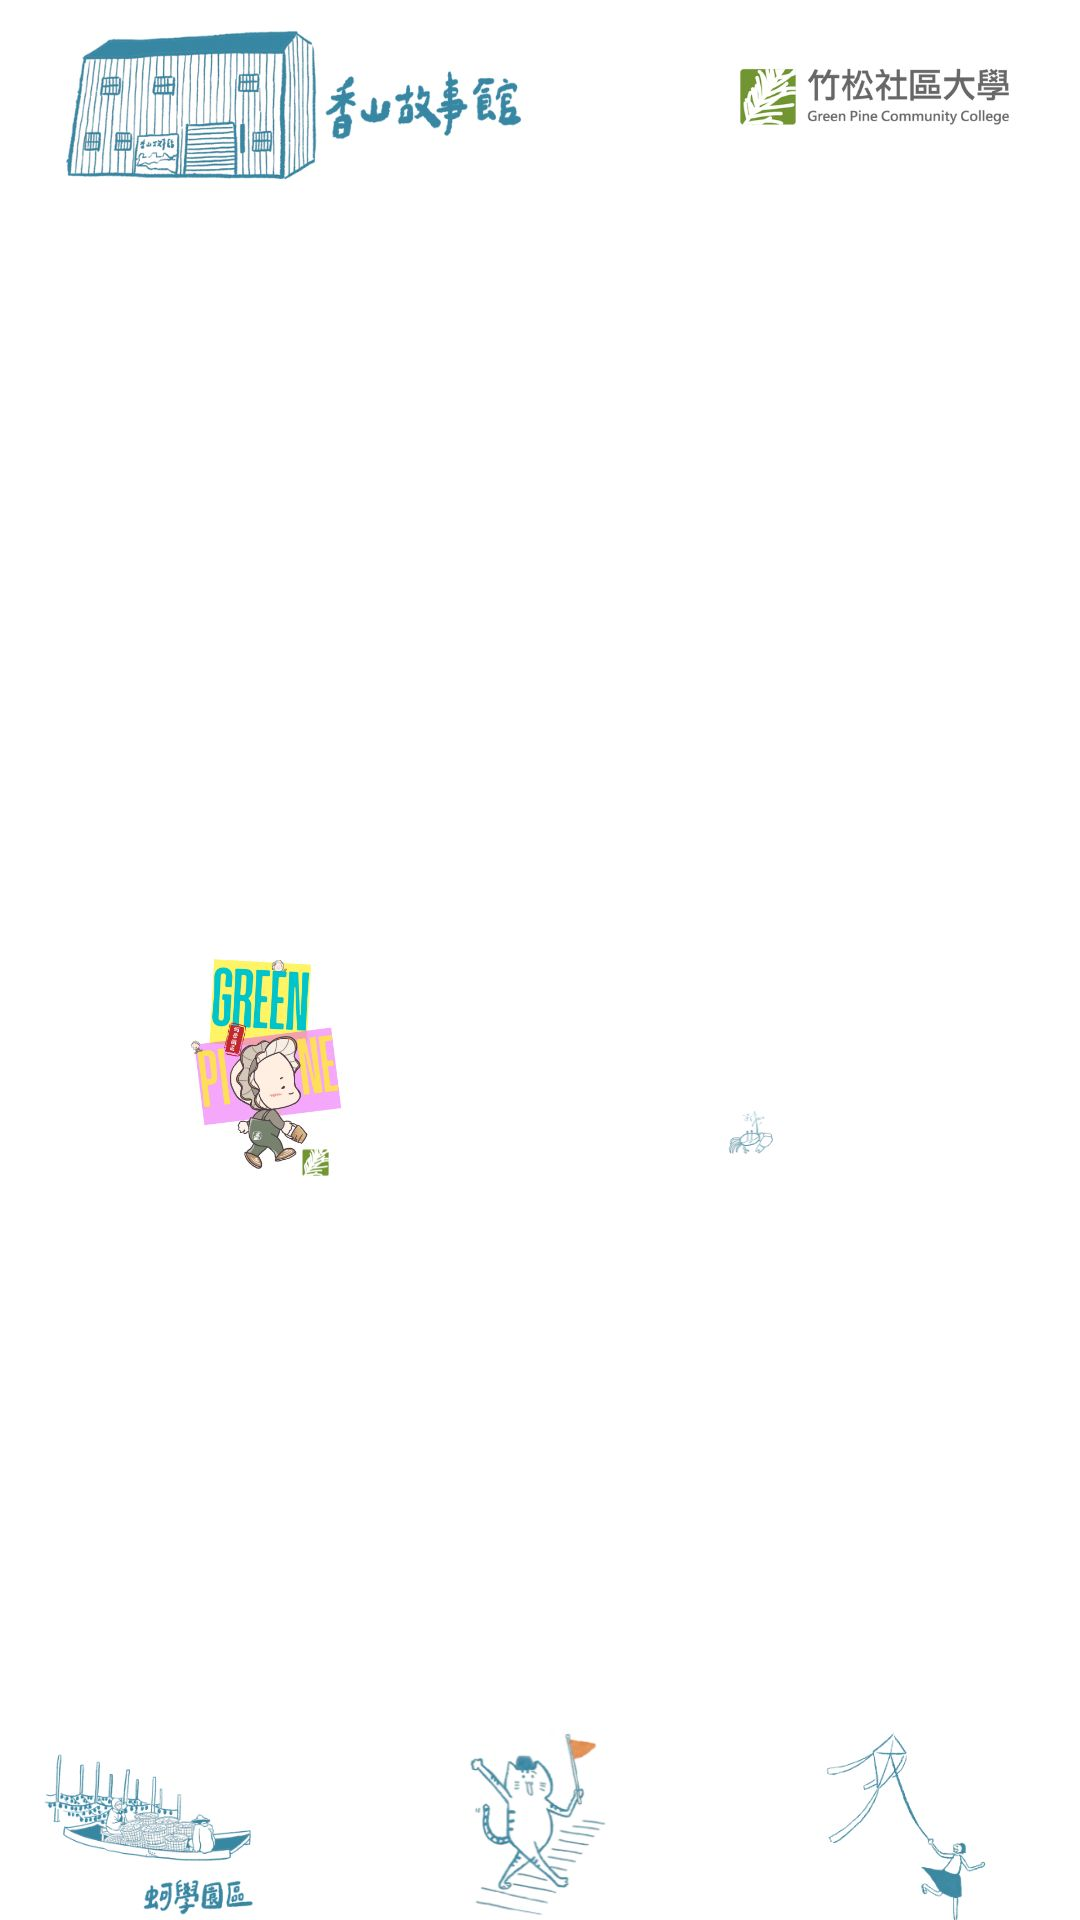
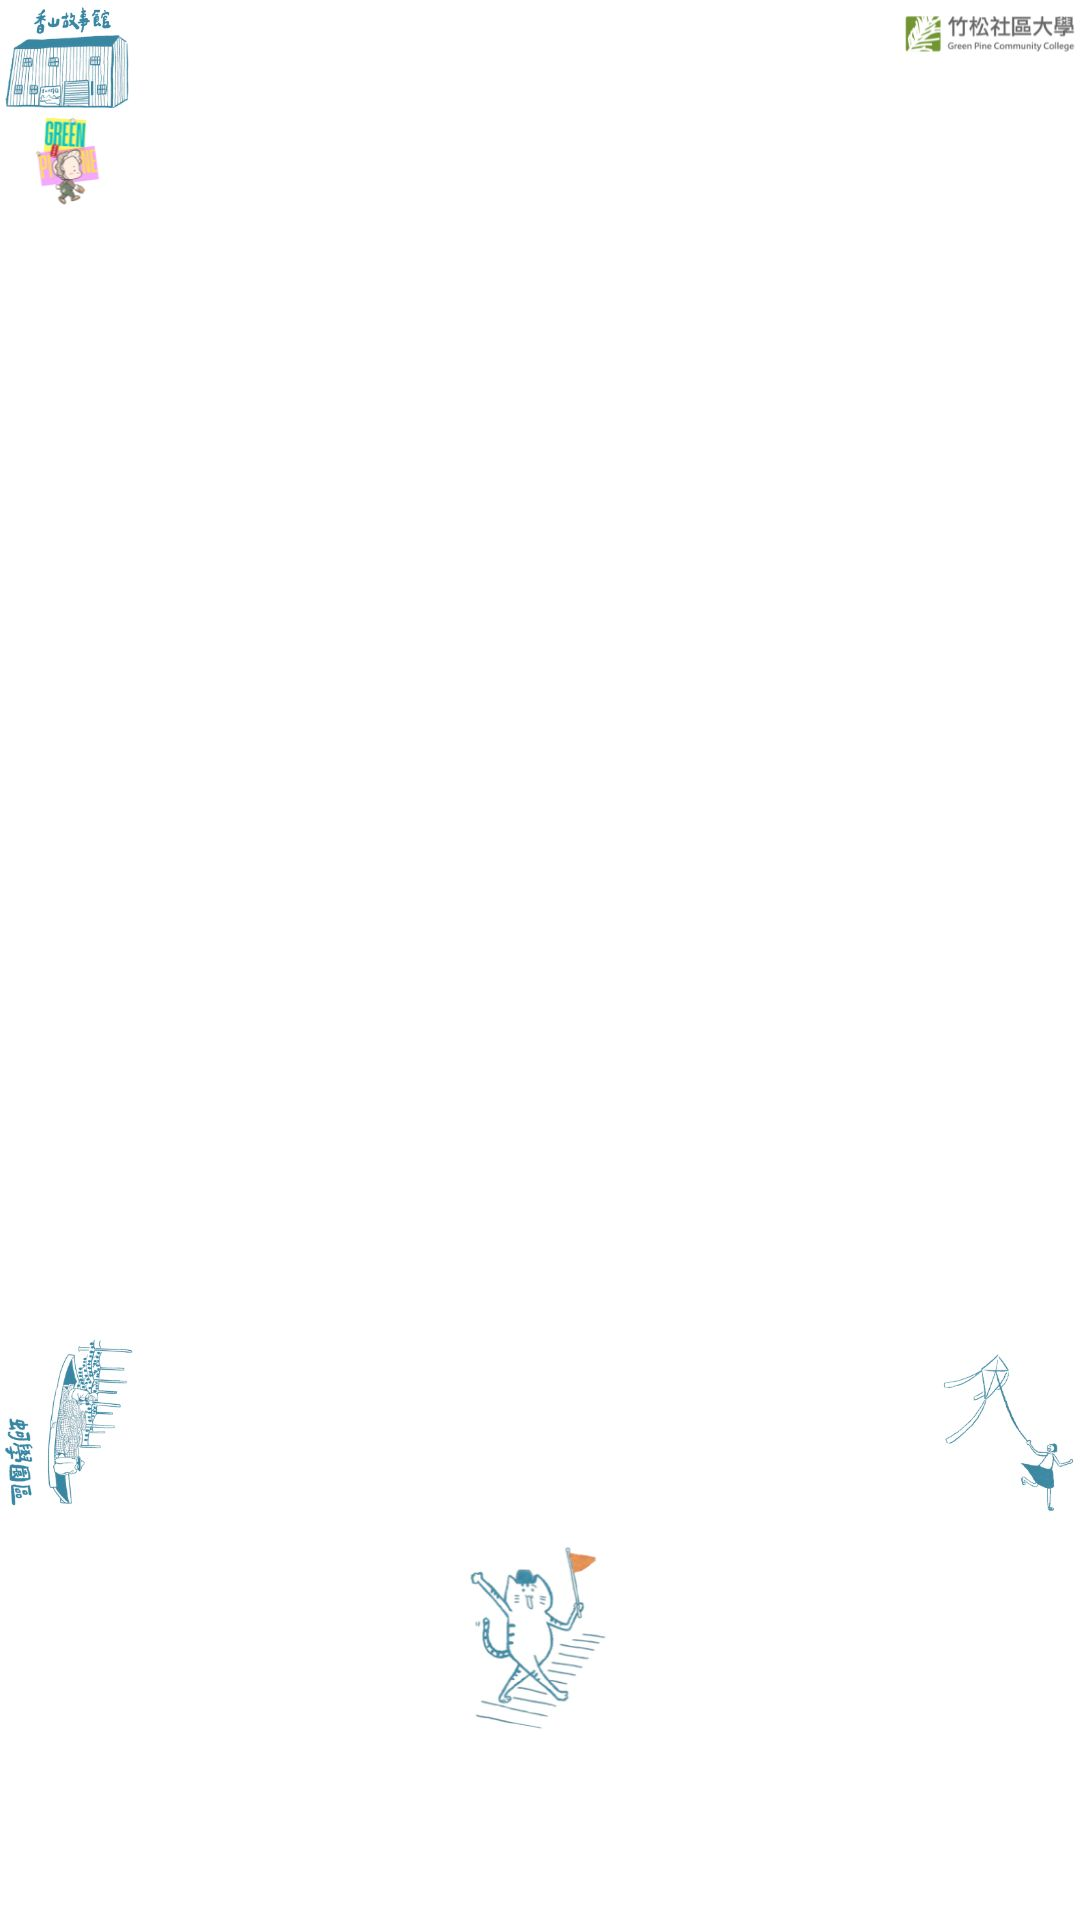
Add files via upload

diff --git a/index.html b/index.html
@@ -5,11 +5,94 @@
 <meta name="viewport" content="width=device-width, initial-scale=1.0">
 <title>香山故事館</title>
 <style>
-  body { font-family: 微軟正黑體; margin:0; padding:0; background: url('bg.jpg') no-repeat center center fixed;
-  background-size: cover; display:flex; justify-content:center; align-items:center; height:100vh; }
-  .player { width:95%; max-width:400px; background:#fff; padding:15px; border-radius:25px; box-shadow:0 10px 25px rgba(0,0,0,0.2); text-align:center; margin: 50px auto; transition: all 0.3s ease; }
+  body { font-family: 微軟正黑體; margin:0; padding:0; background: url('bg.jpg') no-repeat center top;
+  background-size: cover; display:flex; flex-direction: column; justify-content:center; align-items:center; height:100vh; }
+  .player { width:95%; max-width:400px; background:#fff; padding:15px; border-radius:25px; box-shadow:0 10px 25px rgba(0,0,0,0.2); text-align:center; margin-bottom: 30px; }
+.player img {
+  width: 100%;
+  border-radius: 20px;
+  margin-bottom: 15px;
+}
+
+/* 標題與說明文字 */
+.player h2 {
+  font-size: 1.3rem;
+  font-weight: bold;
+  color: #222;
+  margin-bottom: 10px;
+}
+
+.player p {
+  font-size: 1rem;
+  line-height: 1.8;
+  color: #1a2735;
+  text-align: justify;
+}
+
+/* 播放器控制列 */
+audio {
+  width: 100%;
+  margin-top: 15px;
+  margin-bottom: 15px;
+}
+
+/* 按鈕 */
+.controls {
+  display: flex;
+  justify-content: center;
+  gap: 15px;
+}
+
+.controls button {
+  width: 60px;
+  height: 60px;
+  border-radius: 50%;
+  border: none;
+  font-size: 24px;
+  color: white;
+  cursor: pointer;
+  transition: transform 0.2s;
+}
+
+.controls button:hover {
+  transform: scale(1.1);
+}
+
+.controls .backward,
+.controls .forward {
+  background: #25a5a5;
+}
+
+.controls .play {
+  background: #f85b5b;
+}
+
+/* 🔹 手機版調整 */
 @media screen and (max-width: 768px) {
-  .player { margin: 0 auto; width: 100%; border-radius: 0; }
+  body {
+    justify-content: flex-start; /* 從上方開始 */
+    align-items: center;         /* 水平仍置中 */
+    padding-top: 20px;
+  }
+
+  .player {
+    width: 90%;
+    margin-bottom: 20px;
+  }
+
+  .player h2 {
+    font-size: 1.2rem;
+  }
+
+  .player p {
+    font-size: 0.95rem;
+  }
+
+  .controls button {
+    width: 55px;
+    height: 55px;
+    font-size: 22px;
+  }
 }
   .cover { width:100%; height:220px; border-radius:20px; object-fit:cover; margin-bottom:15px; }
   .title { font-size:18px; font-weight:bold; margin-bottom:10px;font-family: Gungsuh, serif;color:#373535; }
